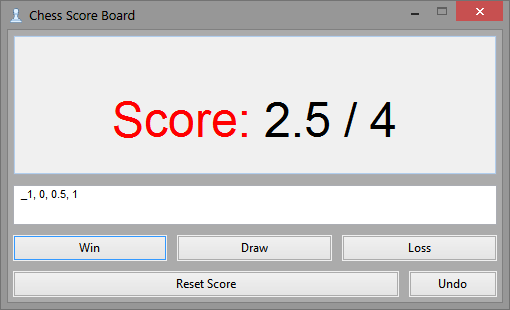
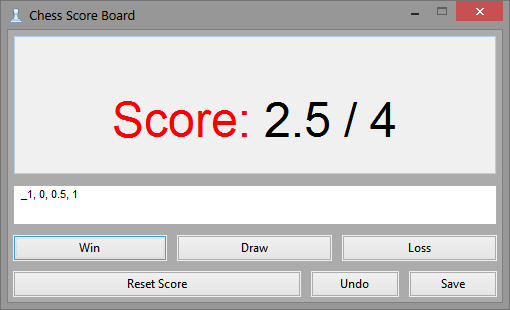
README update
Updated README with icon8 link and saving to file possibility.
Updated the screenshot of an application window also.

diff --git a/README.md b/README.md
@@ -1,14 +1,16 @@
 ## What's this project?
 
-This is application for counting points while playing chess session.
+This is an application for counting points while playing chess session.
 
-Inspired by [chess videos of John Bartholomew](https://www.youtube.com/channel/UC6hOVYvNn79Sl1Fc1vx2mYA).
+Inspired by [chess videos](https://www.youtube.com/channel/UC6hOVYvNn79Sl1Fc1vx2mYA) of John Bartholomew.
 
 ![Application window](./docs/mainWindow.png)
 
 Whenever the game ends, just hit one of the result buttons, proper points amount will be added to your score.
 
 Application displays your overall score, game count and session's result history.
+
+You can save scores in plain text file in order to keep tracking your progress.
 
 ## Technical touch
 
@@ -19,6 +21,8 @@ GUI layout was designed in [wxFormBuilder](https://github.com/wxFormBuilder/wxFo
 Project based on [CMake](https://cmake.org/) ([CLion](https://www.jetbrains.com/clion/)).
 
 Should be multiplatform, but was tested only under Linux Mint 18 KDE, Windows 7 and Windows 10.
+
+I've used icon from [icons8](https://icons8.com/) - check this out, the site is amazing! :)
 
 ## How to get application
 
